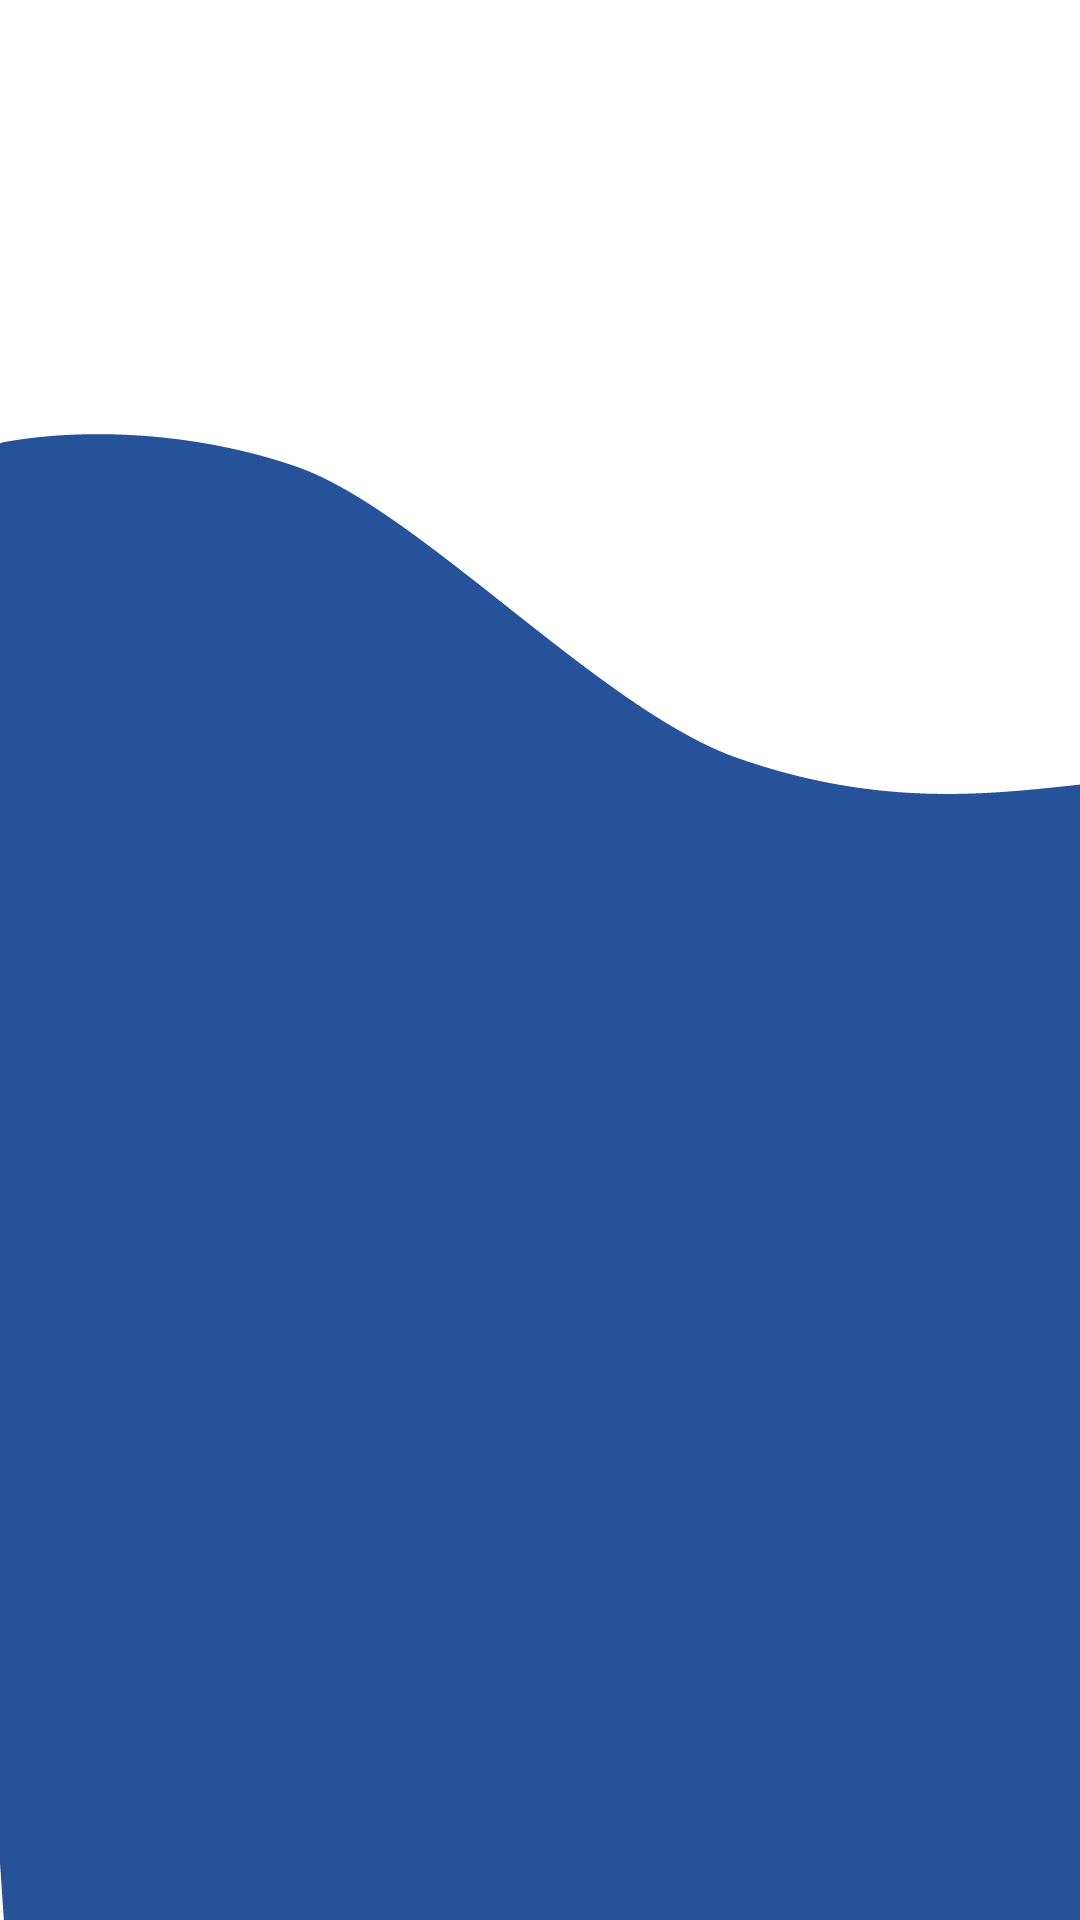
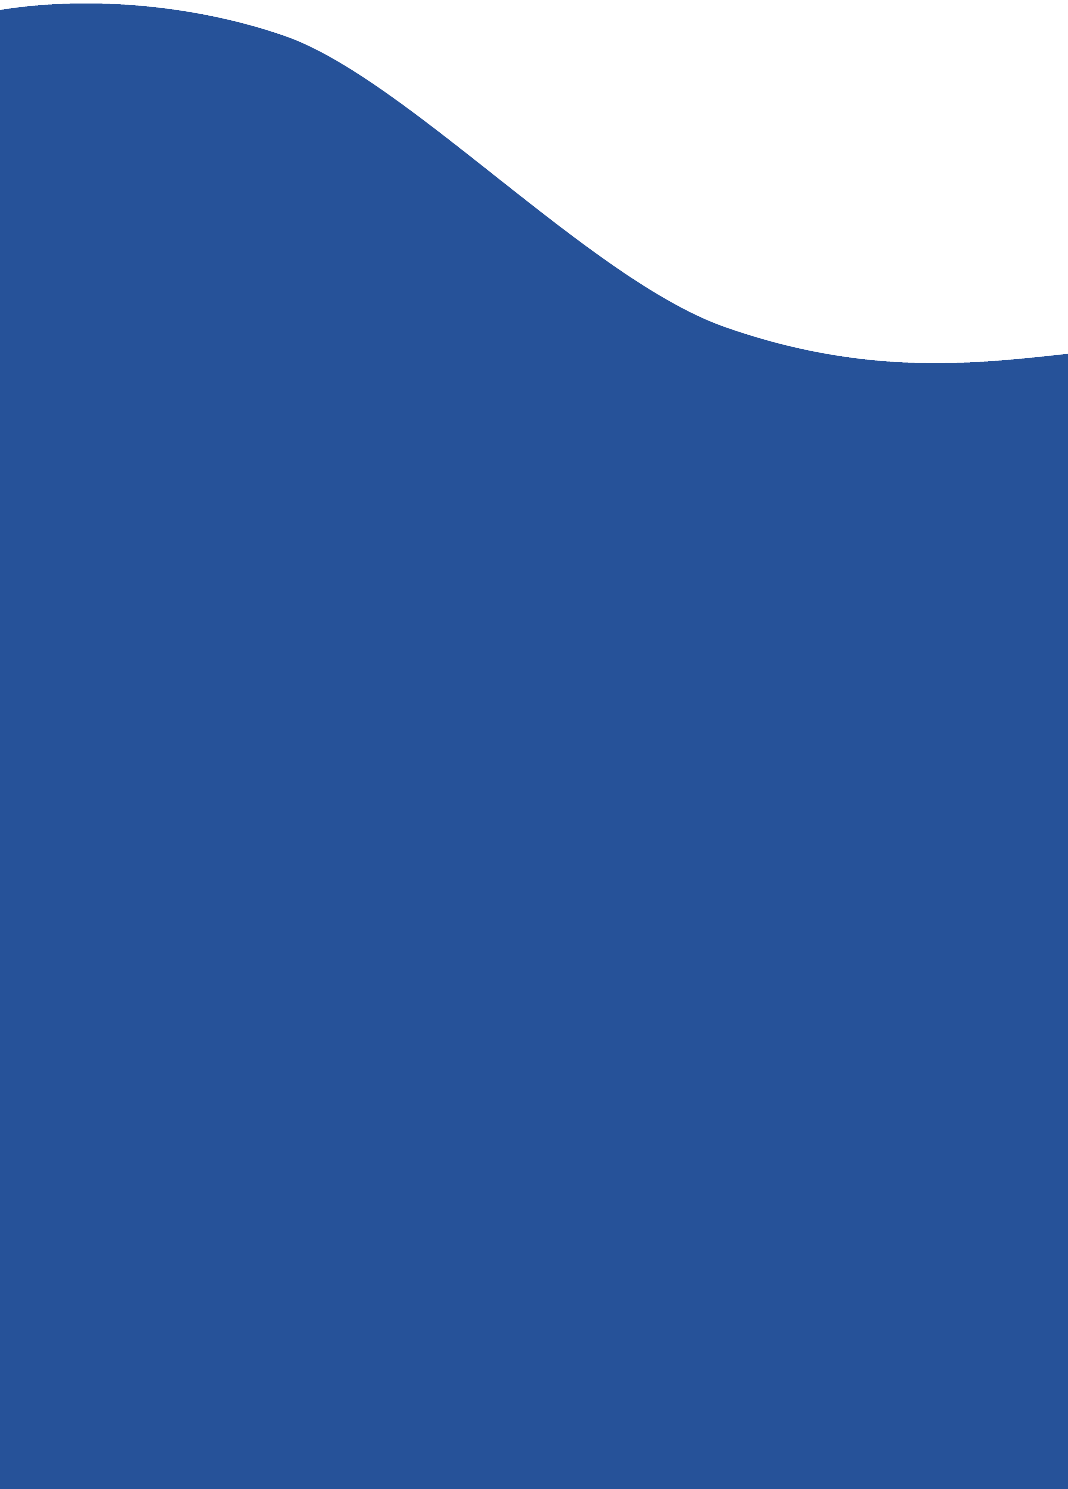
index e header de paginas

Changed region(s): [[0.0, 0.0, 1.0, 0.4325], [0.0, 0.9886, 0.0309, 1.0]]

diff --git a/pssabin/styles/style.css b/pssabin/styles/style.css
@@ -1,6 +1,8 @@
 @charset "UTF-8";
 @import url('https://fonts.googleapis.com/css2?family=Montserrat:ital,wght@0,100..900;1,100..900&display=swap');
 
+/*index*/
+
     * {
         margin: none;
         padding: none;
@@ -15,7 +17,7 @@
     
     html, main{
         height: 100vh;
-        width: 100vw;
+        width: 99vw;
         
     }
     header{
@@ -35,6 +37,12 @@
         align-items: space-between;
 
     }
+    div#logo > a{ 
+        display: flex;
+        
+        text-decoration: none;
+        
+    }
 
     div.containernav {
         display: flex;
@@ -44,8 +52,10 @@
 
         padding-top: 5%;
 
-        padding-right: 5px;
-
+    }
+    header > div.containernav > nav {
+        margin-right: 10px;
+        margin-left: 10px;
     }
     
 
@@ -53,22 +63,23 @@
         margin: 10% 0% 5% 5%;
     }
 
-    #logo > img {
+    div#logo > a > img {
 
         width: 105px;
     
     }
 
-    .escrevaaqui , .perfil , .equipe {
+    .escrevaaqui , .login , .equipe {
+
 
         background-color: #ffffff;
         color: black;
         font-weight: normal;
         
-        font-size: 0.7em;
+        font-size: 0.6em;
         line-height: 2em;
         text-decoration: none;
-        padding: 5px;
+        padding: 7px;
 
         border-top: #ffffff 1px solid;
         border-right: #265299 2.5px solid;
@@ -90,12 +101,14 @@
         display: flex;
         flex-flow: row nowrap;
         justify-content: end;
+
+        width: 99vw;
         
         
     }
     .circuloimg {
 
-        width: 163.5px;
+        width: 162px;
     }
     div.qrenviar{
        
@@ -122,7 +135,7 @@
         position: relative;
         top: -10px;
         font-size: 0.6em;
-        width: 180px;
+        width: 190px;
         line-height: 1.1em;
         margin-bottom: 5px;
         
@@ -142,18 +155,55 @@
         text-decoration: none;
         padding: 15px;
         border-radius: 10px;
-        
     }
-    img#ondaazul{
-        position: relative;
-        bottom: -80px;
-        margin-left: -2px;
-        width: 100.5%;
-       
-    }
-    div.envieaqui > a{
+
+    div.envieaqui > a {
         text-decoration: none;
         color: #ffffff;
+    }
+
+    .containerondaazul {
+        display: flex;
+        flex-flow: row nowrap;
+
+        transform: translateY(-100px);
+
+        
+    }
+    div.ondaazul{
+
+        display: flex;
+        flex-flow: row nowrap;
+
+        width: 100vw;
+        height: 465px;
+
+        
+    }
+    div.ondaazul > img {
+        
+        flex: auto;
+        align-content: stretch;
+        
+        width: 363px;
+    }
+
+    div.containerpoemasrecentes {
+        background-color: aqua;
+        width: 200px;
+        height: 200px;
+    }
+
+    /*Escreva Aqui*/
+
+    .containerlogin{
+
+        display: flex;
+        justify-content: center;
+        align-items: center;
+
+        margin-top: 50px;
+
     }
 
 

diff --git a/pssabin/escreva.aqui.html b/pssabin/escreva.aqui.html
@@ -1,32 +1,65 @@
 <!DOCTYPE html>
-<html lang="en">
+<html lang="pt-BR">
 <head>
     <meta charset="UTF-8">
     <meta name="viewport" content="width=device-width, initial-scale=1.0">
-    <title>PS SABIN</title>
+    <title>PS Sabin</title>
+
+    <link rel="shortcut icon" href="imagens/favicon.ico" type="image/x-icon">
+    <!--Media Queries-->
+    <link rel="stylesheet" href="styles/style.css" media="all">
+    <link rel="stylesheet" href="styles/style.pc.css">
+
+
+    <!--Bootsstrap-->
+    <link href="https://cdn.jsdelivr.net/npm/bootstrap@5.3.3/dist/css/bootstrap.min.css" rel="stylesheet" integrity="sha384-QWTKZyjpPEjISv5WaRU9OFeRpok6YctnYmDr5pNlyT2bRjXh0JMhjY6hW+ALEwIH" crossorigin="anonymous">
+    
+    <!--Scripts-->
+    <link rel="javascipt" href="script/script.js">
+    <script src="https://cdn.jsdelivr.net/npm/bootstrap@5.3.3/dist/js/bootstrap.bundle.min.js" integrity="sha384-YvpcrYf0tY3lHB60NNkmXc5s9fDVZLESaAA55NDzOxhy9GkcIdslK1eN7N6jIeHz" crossorigin="anonymous"></script>
+   <!--Font-->
+ 
+
     
 </head>
 <body>
-    <a href="index.html">
-        <h1>PS SABIN</h1>
-    </a>
-    <form action="" method="post">
-        <div>
-            <label for="titulo"></label>
-            <input type="text" name="titulo" id="titulo" placeholder="Escreva seu título">
+    <header>
+        <div id="logo">
+            <a href="index.html">
+                <img src="imagens/pssabin.logo.png" alt="logo"></a>
+            </div>
+        <div class="containernav">
+                <nav>
+                    <a class="equipe" href="equipe.html">EQUIPE</a>
+                    <a class="escrevaaqui" href="escreva.aqui.html">ESCREVA AQUI</a>
+                    <a class="login" href="login.html">LOGIN</a>
+                
+                </nav>
         </div>
-        <div>
-            <label for="poemaarea"></label>
-            <textarea name="poemaarea" id="poemaarea" cols="30" rows="10" placeholder="Escreva seu poema"></textarea>
         </div>
+        
 
-        <div>
-            <button type="submit">Publicar</button>
-
+    </header>
+    
+    <main>
+        <div class="container">
+            <div class="containerlogin">
+                <form action="" method="post">
+                    <div>
+                        <label for="titulo"></label>
+                        <input type="text" name="titulo" id="titulo" placeholder="Escreva seu título">
+                    </div>
+                    <div>
+                        <label for="poemaarea"></label>
+                        <textarea name="poemaarea" id="poemaarea" cols="30" rows="10" placeholder="Escreva seu poema"></textarea>
+                    </div>
+                    <div>
+                        <button type="submit">Publicar</button>
+                    </div>
+                </form>
+            </div>
         </div>
-
-
-    </form>
+    </main>
 
     
 </body>

diff --git a/pssabin/index.html b/pssabin/index.html
@@ -5,7 +5,7 @@
     <meta name="viewport" content="width=device-width, initial-scale=1.0">
     <title>PS Sabin</title>
 
-    <link rel="shortcut icon" href="favicon.ico" type="image/x-icon">
+    <link rel="shortcut icon" href="imagens/favicon.ico" type="image/x-icon">
     <!--Media Queries-->
     <link rel="stylesheet" href="styles/style.css" media="all">
     <link rel="stylesheet" href="styles/style.pc.css">
@@ -25,13 +25,14 @@
 <body>
     <header>
         <div id="logo">
-            <img src="imagens/pssabin.logo.png" alt="logo">
-        </div>
+            <a href="index.html">
+                <img src="imagens/pssabin.logo.png" alt="logo"></a>
+            </div>
         <div class="containernav">
                 <nav>
-                    <a class="equipe" href="escreva.aqui.html">EQUIPE</a>
-                    <a class="escrevaaqui" href="login.html">ESCREVA AQUI</a>
-                    <a class="perfil" href="perfil.html">LOGIN</a>
+                    <a class="equipe" href="equipe.html">EQUIPE</a>
+                    <a class="escrevaaqui" href="escreva.aqui.html">ESCREVA AQUI</a>
+                    <a class="login" href="login.html">LOGIN</a>
                 
                 </nav>
         </div>
@@ -54,20 +55,32 @@
                     <img class="circuloimg" src="imagens/circulo.png" alt="circulo">
                 </div>
             </div>
-            <div class="ondaazul">
+            <div class="containerondaazul">
+                <div class="ondaazul">
+                    <div class="ondaazul">
+                        <img src="imagens/onda azul.png" alt="onda azul">
+                    </div>
+                </div>
             </div>
+        </div>
             <!--<img id="ondaazul" src="imagens/onda azul.png" alt="onda azul">-->
         </div>
+        
+        <article id="containerrecentes">
+                <div class="containerpoemasrecentes">
+                    <div class="textrecentes">
+                        <p>PUBLICAÇÕES</p>
+                        <p>RECENTES</p>
+                    </div>
+                    <div id="poemasrecentes"></div>
+
+                <!--Area de poemas recentes para a landing page-->
+            </div>
+            
+        </article>
         <article>
             <div class="conteiner">
             </div>
-        </article>
-
-        <article>
-            <div class="conteiner.poemas" id="poemasrecentes">
-                <!--Area de poemas recentes para a landing page-->
-            </div>
-
         </article>
         
     </main>

diff --git a/pssabin/perfil.html b/pssabin/perfil.html
@@ -1,11 +1,40 @@
 <!DOCTYPE html>
 <html lang="pt-br">
-<head>
-    <meta charset="UTF-8">
-    <meta name="viewport" content="width=device-width, initial-scale=1.0">
-    <title>PS SABIN</title>
-</head>
+    <head>
+        <meta charset="UTF-8">
+        <meta name="viewport" content="width=device-width, initial-scale=1.0">
+        <title>PS Sabin</title>
+    
+        <link rel="shortcut icon" href="imagens/favicon.ico" type="image/x-icon">
+        <!--Media Queries-->
+        <link rel="stylesheet" href="styles/style.css" media="all">
+        <link rel="stylesheet" href="styles/style.pc.css">
+    
+    
+        <!--Bootsstrap-->
+        <link href="https://cdn.jsdelivr.net/npm/bootstrap@5.3.3/dist/css/bootstrap.min.css" rel="stylesheet" integrity="sha384-QWTKZyjpPEjISv5WaRU9OFeRpok6YctnYmDr5pNlyT2bRjXh0JMhjY6hW+ALEwIH" crossorigin="anonymous">
+        
+        <!--Scripts-->
+        <link rel="javascipt" href="script/script.js">
+        <script src="https://cdn.jsdelivr.net/npm/bootstrap@5.3.3/dist/js/bootstrap.bundle.min.js" integrity="sha384-YvpcrYf0tY3lHB60NNkmXc5s9fDVZLESaAA55NDzOxhy9GkcIdslK1eN7N6jIeHz" crossorigin="anonymous"></script>
+       <!--Font-->
+        
+    </head>
 <body>
+    <header>
+        <div id="logo">
+            <a href="index.html">
+                <img src="imagens/pssabin.logo.png" alt="logo"></a>
+            </div>
+        <div class="containernav">
+                <nav>
+                    <a class="equipe" href="equipe.html">EQUIPE</a>
+                    <a class="escrevaaqui" href="escreva.aqui.html">ESCREVA AQUI</a>
+                    <a class="login" href="perfil.html">PERFIL</a>
+                
+                </nav>
+        </div>
+        </div>
     
 </body>
 </html>

diff --git a/pssabin/equipe.html b/pssabin/equipe.html
@@ -1,5 +1,5 @@
 <!DOCTYPE html>
-<html lang="pt-BR">
+<html lang="en">
 <head>
     <meta charset="UTF-8">
     <meta name="viewport" content="width=device-width, initial-scale=1.0">
@@ -32,18 +32,14 @@
                 <nav>
                     <a class="equipe" href="equipe.html">EQUIPE</a>
                     <a class="escrevaaqui" href="escreva.aqui.html">ESCREVA AQUI</a>
+                    <a class="login" href="login.html">LOGIN</a>
                 
                 </nav>
         </div>
         </div>
+        
 
     </header>
-
-    <main>
-
-
-
-    </main>
     
 </body>
 </html>
